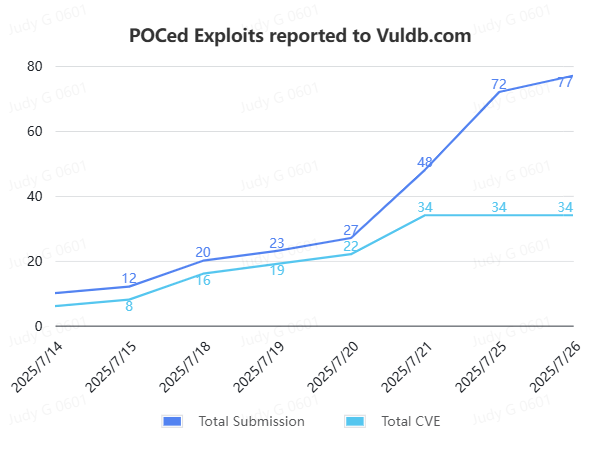
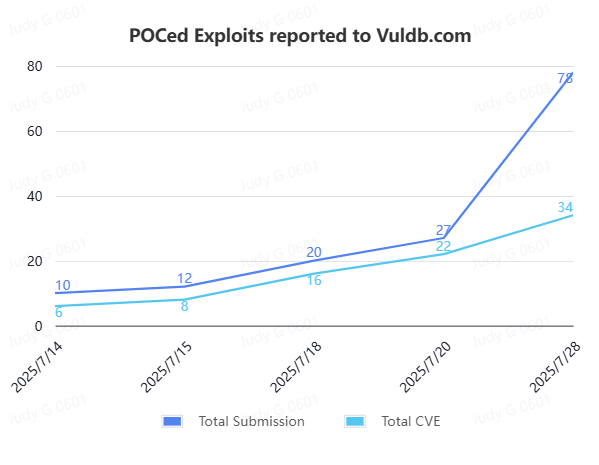
update blog

diff --git a/_posts/2025-07-29-Introduce-Zast.ai.md b/_posts/2025-07-29-Introduce-Zast.ai.md
@@ -37,7 +37,7 @@ During its development, Zast.ai uncovered hundreds of zero-day vulnerabilities. 
 
 The results of the last ten days have been humbling and affirming:
 
-- As of July 28th, we have submitted **77** vulnerabilities.
+- As of July 28th, we have submitted **78** vulnerabilities.
   ![Vulnerability submissions growth on VulDB.com]({{'/assets/img/vuldb/growth.png' | relative_url }})
 - This effort has made Zast.ai the **#1** global contributor to VulDB for the month of July, 2025.
   ![Zast.ai vulnerability submissions on VulDB.com]({{'/assets/img/vuldb/number1.png' | relative_url }})
